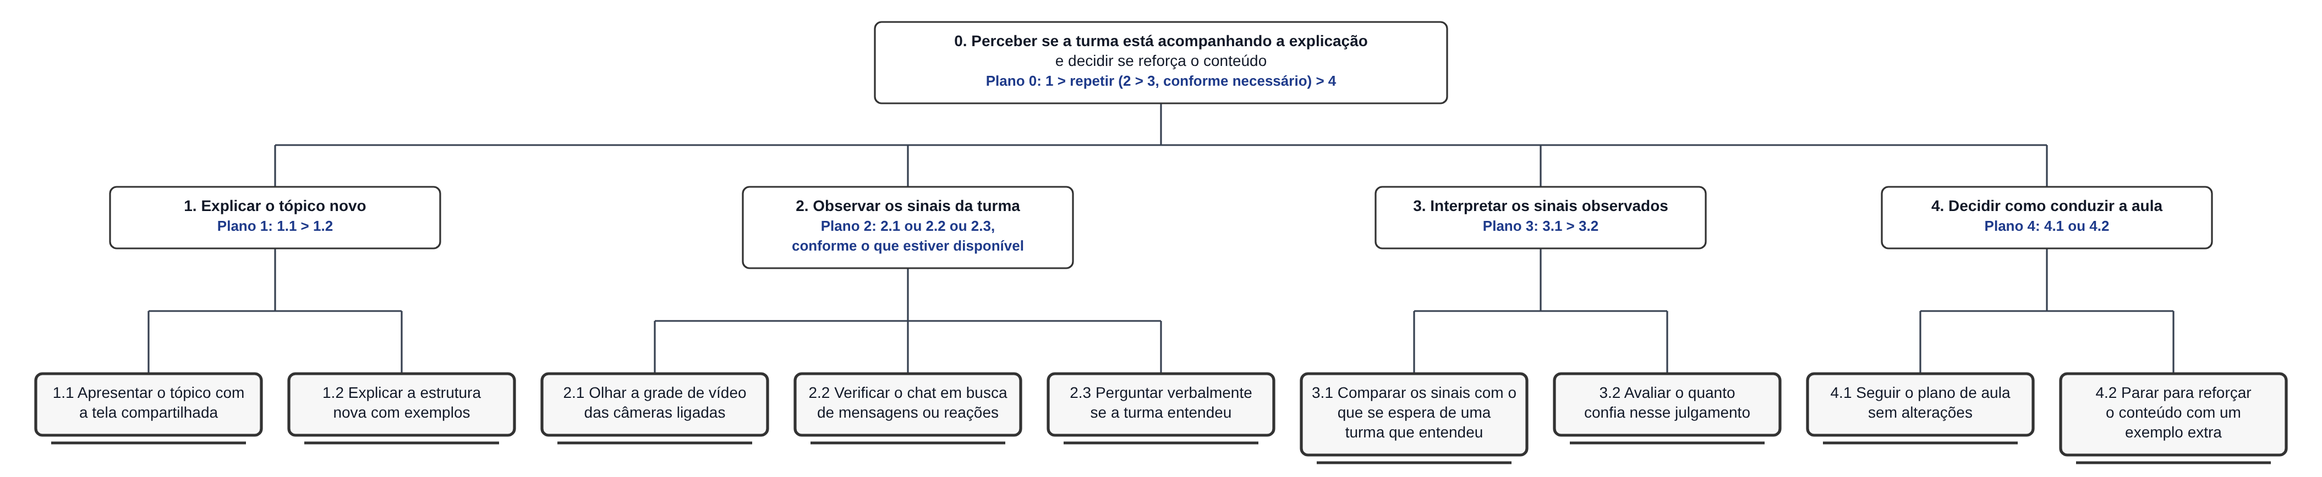
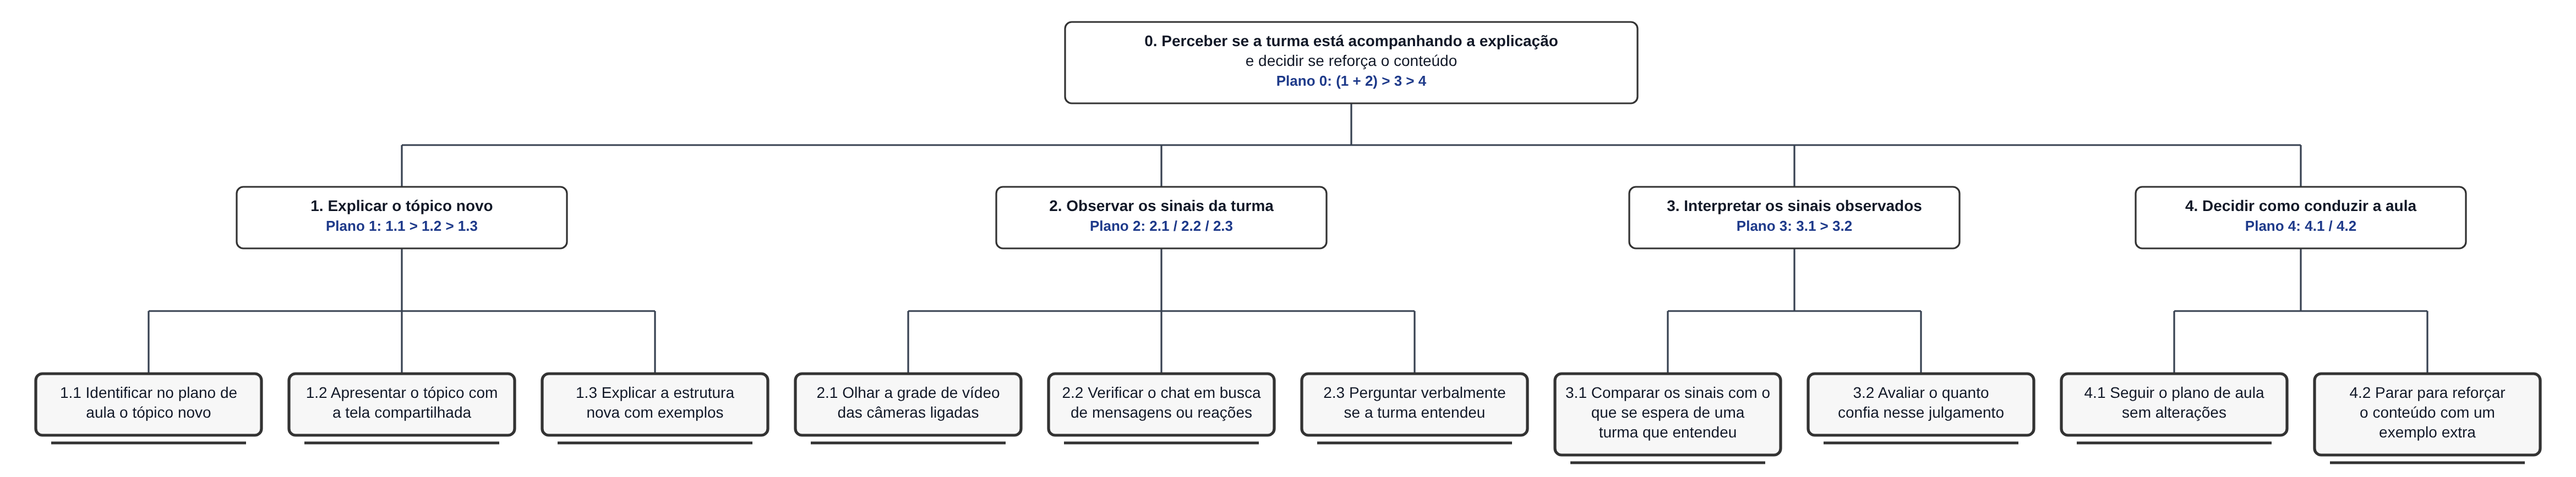
Correções da T03 conforme feedback da Entrega 5

diff --git a/docs/05_analise_tarefas.md b/docs/05_analise_tarefas.md
@@ -30,7 +30,7 @@ Um CRUD pode gerar tarefas relevantes, mas “cadastrar usuário” só merece m
 | ID | Tarefa | Persona/cenário de origem | Frequência/criticidade | Autor responsável |
 |---|---|---|---|---|
 | T01 | Personalizar a visualização dos resultados de uma aula concluída no MindFlow AI | P01 / C02 — docente analisando uma aula já finalizada e personalizando a apresentação dos resultados | Média frequência / Alta criticidade | Kayky Pires de Paula — 22.222.040-2 || T02 | Interpretar os indicadores do MindFlow AI e decidir se deve adaptar a condução durante a aula | P01 / C01 — docente analisando os resultados de uma aula on-line após seu término | Média frequência / Alta criticidade | Rafael Dias Silva Costa - 22.222.039-4 |
-| T03 | Perceber, durante a aula, se a turma está acompanhando uma explicação nova e decidir se reforça o conteúdo | P02 / C05 — professora de inglês explicando uma estrutura gramatical nova para uma turma pequena | Alta frequência / Alta criticidade | Isabella Vieira Silva Rosseto — 22.222.036-0 |
+| T03 | Perceber, durante a aula, se a turma está acompanhando uma explicação nova e decidir se reforça o conteúdo | P02 / C05 — professora de inglês explicando uma estrutura gramatical nova para uma turma pequena. Natureza: prática atual, sem o MindFlow | Alta frequência / Alta criticidade | Isabella Vieira Silva Rosseto — 22.222.036-0 |
 | T04 | Participar de uma aula com o MindFlow ativo controlando a própria participação na análise | P05 / C03 — Bruno entrando atrasado na aula de Cálculo, sem saber o que é feito com a imagem dele nem se a câmera ligada (ou desligada) pode pesar contra ele | Alta frequência (toda aula com o MindFlow ativo) / Alta criticidade | Gustavo Bertoluzzi Cardoso — 22.123.016-2 |
 | T05 | Conduzir a apresentação comercial percebendo a reação dos clientes e decidindo se avança, reforça ou reexplica um ponto da proposta | P04 / C01 — Manoel apresentando uma proposta pelo Teams com a tela compartilhada, sem conseguir ver nem ouvir todos os clientes, do preparo da reunião até a comparação das anotações com o retorno do cliente no follow-up | Alta frequência (toda reunião comercial) / Alta criticidade | Matheus Ferreira de Freitas — 22.125.085-5 |
 
@@ -479,7 +479,7 @@ flowchart TB
 
 A tarefa tem como objetivo permitir que a professora perceba, durante a própria aula, se a turma está acompanhando uma explicação nova e decida, ainda em tempo real, se reforça o conteúdo antes de seguir para o próximo tópico. É a tarefa que, no Cenário C05 (Entrega 4), Camila não consegue realizar bem: ela só descobre a dificuldade da turma na aula seguinte, ao corrigir o exercício de casa.
 
-A tarefa se inicia quando a professora começa a explicar um tópico novo, com a tela compartilhada e a grade de vídeo reduzida num canto da tela. Enquanto explica, ela busca sinais de compreensão: observa as câmeras ligadas, verifica o chat ou pergunta diretamente se a turma entendeu.
+A tarefa se inicia quando a professora identifica, no plano de aula, que chegou a hora de explicar um tópico novo, e começa a explicação com a tela compartilhada e a grade de vídeo reduzida num canto da tela. Enquanto explica, ela busca sinais de compreensão: observa as câmeras ligadas, verifica o chat ou pergunta diretamente se a turma entendeu.
 
 Com base nesses sinais, a professora interpreta se o silêncio e as respostas recebidas indicam compreensão ou dúvida, avaliando também o quanto confia nesse julgamento, que hoje é informal. Em seguida, decide se segue o plano de aula ou se interrompe a sequência para reforçar o conteúdo com um exemplo extra.
 
@@ -491,19 +491,31 @@ A tarefa é considerada concluída quando a professora toma a decisão (seguir o
 
 ### Decomposição e planos
 
-| ID | Objetivo/operação | Plano/ordem | Problema ou decisão de design observada |
-|---|---|---|---|
-| 0 | Perceber se a turma está acompanhando a explicação e decidir se reforça o conteúdo | 1 > repetir (2 > 3, conforme necessário) > 4 | A tarefa depende de sinais fracos (silêncio, câmeras desligadas); hoje não existe nenhum indicador estruturado, só a leitura informal da professora |
-| 1 | Explicar o tópico novo | 1.1 > 1.2 | Enquanto explica com a tela compartilhada, a professora já está com a atenção ocupada, o que reduz a atenção disponível para observar a turma |
-| 2 | Observar os sinais da turma | 2.1 ou 2.2 ou 2.3, conforme o que estiver disponível | Os três canais (câmera, chat, pergunta verbal) competem com a explicação e nenhum é confiável sozinho: a grade fica reduzida na tela compartilhada e o “sim” verbal costuma ser pouco convicto |
-| 3 | Interpretar os sinais observados | 3.1 > 3.2 | Não há nenhum indicador de confiança nesse julgamento; ele é puramente subjetivo (relacionado à hipótese H02) |
-| 4 | Decidir como conduzir a aula | 4.1 ou 4.2 | Parar para reforçar (4.2) gasta tempo de aula, então só acontece quando a professora tem bastante certeza, o que favorece seguir em frente por excesso de cautela |
+Notação dos planos: `>` sequência, `/` escolha e `+` paralelismo. As condições aparecem por extenso na última coluna.
+
+| ID | Objetivo/operação | Input | Feedback | Plano | Ações, problemas e recomendações |
+|---|---|---|---|---|---|
+| 0 | Perceber se a turma está acompanhando a explicação e decidir se reforça o conteúdo | Momento do plano de aula em que um conteúdo novo será explicado, com a tela compartilhada e a turma conectada | Camila reconhece que decidiu entre seguir ou reforçar e retoma a aula a partir dessa decisão | (1 + 2) > 3 > 4 | 2 se repete enquanto 1 acontece. Se 3 não for conclusiva, Camila volta a 2 antes de decidir. Problema: a tarefa depende de sinais fracos (silêncio, câmeras desligadas) e hoje só existe a leitura informal da professora |
+| 1 | Explicar o tópico novo | — | — | 1.1 > 1.2 > 1.3 | Enquanto explica com a tela compartilhada, a atenção da professora já está ocupada, o que reduz a atenção disponível para observar a turma |
+| 1.1 | Identificar no plano de aula o tópico novo | — | — | — | Atividade fora da videochamada que motiva a tarefa |
+| 1.2 | Apresentar o tópico com a tela compartilhada | — | — | — | A grade de vídeo fica reduzida a miniaturas |
+| 1.3 | Explicar a estrutura nova com exemplos | — | — | — | Ocupa a maior parte da atenção da professora |
+| 2 | Observar os sinais da turma | — | — | 2.1 / 2.2 / 2.3 | Escolha conforme o canal disponível: 2.1 se houver câmeras ligadas, 2.2 se a turma usa o chat, 2.3 se os outros dois não bastarem. Problema: nenhum canal é confiável sozinho e todos competem com a explicação |
+| 2.1 | Olhar a grade de vídeo das câmeras ligadas | — | — | — | Miniaturas pequenas e metade das câmeras desligadas |
+| 2.2 | Verificar o chat em busca de mensagens ou reações | — | — | — | Depende de o aluno escrever |
+| 2.3 | Perguntar verbalmente se a turma entendeu | — | — | — | O “sim” costuma vir rápido e pouco convicto |
+| 3 | Interpretar os sinais observados | — | — | 3.1 > 3.2 | Problema: não há nenhum apoio para avaliar a confiança nesse julgamento (H02) |
+| 3.1 | Comparar os sinais com o que se espera de uma turma que entendeu | — | — | — | Critério informal, baseado na experiência da professora |
+| 3.2 | Avaliar o quanto confia nesse julgamento | — | — | — | Recomendação: investigar com professoras que informação aumentaria essa confiança |
+| 4 | Decidir como conduzir a aula | — | — | 4.1 / 4.2 | 4.1 se a interpretação indicar compreensão; 4.2 se indicar dúvida. Problema: reforçar gasta tempo de aula, então só acontece com bastante certeza, o que favorece seguir em frente |
+| 4.1 | Seguir o plano de aula sem alterações | — | — | — | — |
+| 4.2 | Parar para reforçar o conteúdo com um exemplo extra | — | — | — | Custo de tempo e risco de expor quem não entendeu |
 
 **Verificação do HTA:**
 
 - O objetivo 0 representa uma meta do usuário? Sim. É o objetivo de Camila (persona P02, Cenário C05), e não uma função do sistema.
-- As subtarefas são necessárias e suficientes? Sim. Explicar, observar, interpretar e decidir cobrem o ciclo completo descrito no cenário.
-- Os **planos** indicam ordem, alternativa, repetição ou condição? Sim. O Plano 0 usa ordem e repetição, e os Planos 2 e 4 usam alternativa (“ou”).
+- As subtarefas são necessárias e suficientes? Sim. Explicar, observar, interpretar e decidir cobrem o ciclo completo descrito no cenário, começando pela atividade fora da videochamada que motiva a tarefa (1.1).
+- Os **planos** indicam ordem, alternativa, repetição ou condição? Sim. O Plano 0 usa paralelismo (`+`) e sequência (`>`), com a repetição de 2 descrita na tabela; os Planos 2 e 4 usam escolha (`/`).
 - A decomposição parou em nível útil para projeto de interação? Sim. Parou em ações observáveis (olhar a grade, verificar o chat, perguntar), sem descer a detalhes de tela.
 
 ---
@@ -527,7 +539,8 @@ O objetivo principal é, ainda durante a aula, formar um julgamento sobre a comp
 - **OP. 1.A.1:** direcionar o olhar para a grade de vídeo reduzida;
 - **OP. 1.A.2:** identificar os alunos com câmera ligada;
 - **OP. 1.A.3:** observar as expressões visíveis nas miniaturas;
-- **OP. 1.A.4:** retornar a atenção ao conteúdo compartilhado.
+- **OP. 1.A.4:** retornar a atenção ao conteúdo compartilhado;
+- **OP. 1.A.5:** verificar se as expressões observadas foram suficientes para indicar compreensão ou dúvida; se não forem, recorrer a outro método.
 
 #### METHOD 1.B: Verificar o chat
 
@@ -535,7 +548,8 @@ O objetivo principal é, ainda durante a aula, formar um julgamento sobre a comp
 
 - **OP. 1.B.1:** direcionar o olhar para o painel de chat da videochamada;
 - **OP. 1.B.2:** procurar mensagens ou reações recentes sobre o tópico;
-- **OP. 1.B.3:** retornar a atenção ao conteúdo compartilhado.
+- **OP. 1.B.3:** retornar a atenção ao conteúdo compartilhado;
+- **OP. 1.B.4:** verificar se as mensagens encontradas indicam compreensão ou dúvida; se o chat estiver vazio, recorrer ao Method 1.C.
 
 #### METHOD 1.C: Perguntar diretamente à turma
 
@@ -544,7 +558,8 @@ O objetivo principal é, ainda durante a aula, formar um julgamento sobre a comp
 - **OP. 1.C.1:** interromper brevemente a explicação;
 - **OP. 1.C.2:** perguntar à turma se entenderam;
 - **OP. 1.C.3:** aguardar as respostas;
-- **OP. 1.C.4:** avaliar o tom e a convicção das respostas recebidas.
+- **OP. 1.C.4:** avaliar o tom e a convicção das respostas recebidas;
+- **OP. 1.C.5:** verificar se as respostas foram suficientes para formar um julgamento sobre a turma.
 
 ---
 
@@ -576,7 +591,8 @@ O objetivo principal é, ainda durante a aula, formar um julgamento sobre a comp
 **SEL. RULE:** utilizar quando a interpretação do Goal 2 indicar que a turma acompanhou o conteúdo.
 
 - **OP. 3.A.1:** concluir a explicação do tópico atual;
-- **OP. 3.A.2:** passar para o próximo tópico previsto no plano.
+- **OP. 3.A.2:** passar para o próximo tópico previsto no plano;
+- **OP. 3.A.3:** confirmar que a aula seguiu para o próximo tópico sem dúvida pendente sobre o anterior.
 
 #### METHOD 3.B: Reforçar o conteúdo na hora
 
@@ -585,7 +601,8 @@ O objetivo principal é, ainda durante a aula, formar um julgamento sobre a comp
 - **OP. 3.B.1:** interromper a sequência prevista;
 - **OP. 3.B.2:** apresentar um exemplo adicional da estrutura;
 - **OP. 3.B.3:** perguntar novamente se ficou claro;
-- **OP. 3.B.4:** retomar o plano de aula a partir desse ponto.
+- **OP. 3.B.4:** retomar o plano de aula a partir desse ponto;
+- **OP. 3.B.5:** verificar se as respostas depois do reforço indicaram que a dúvida foi resolvida.
 
 ---
 
@@ -597,7 +614,7 @@ O objetivo principal é, ainda durante a aula, formar um julgamento sobre a comp
 
 O modelo CTT representa a mesma tarefa do HTA e do GOMS da T03, com a mesma numeração dos objetivos, considerando as relações temporais entre as tarefas e quem executa cada uma: a professora (usuário), a professora agindo na videochamada (interação) ou a plataforma de videoconferência (sistema).
 
-Camila explica o tópico novo com a tela compartilhada e, ao mesmo tempo, observa a turma, escolhendo a cada momento entre olhar a grade de vídeo, verificar o chat ou perguntar se entenderam. Depois de observar, interpreta os sinais e avalia o quanto confia nesse julgamento.
+A tarefa começa por uma atividade de Camila fora da videochamada: identificar no plano de aula que chegou a hora de explicar um tópico novo (1.1). Em seguida, ela apresenta o tópico com a tela compartilhada, a plataforma transmite a tela aos alunos e ela explica a estrutura. Ao mesmo tempo, observa a turma, escolhendo a cada momento entre olhar a grade de vídeo, verificar o chat ou perguntar se entenderam. Depois de observar, interpreta os sinais e avalia o quanto confia nesse julgamento.
 
 Por fim, decide entre seguir o plano de aula ou reforçar o conteúdo com um exemplo extra. O modelo descreve a prática atual, sem o MindFlow; por isso o sistema é a plataforma que ela já usa (Google Meet).
 
@@ -610,10 +627,10 @@ Por fim, decide entre seguir o plano de aula ou reforçar o conteúdo com um exe
 | Operador/relação | Significado no diagrama | Exemplo no modelo |
 |---|---|---|
 | Nuvem | Tarefa abstrata. Reúne subtarefas de diferentes categorias. | Explicar o tópico novo; Observar os sinais da turma; Interpretar os sinais; Decidir como conduzir a aula. |
-| Pessoa | Tarefa do usuário. Atividade cognitiva, como avaliar ou decidir. | Comparar os sinais; Avaliar o quanto confia; Seguir o plano de aula. |
+| Pessoa | Tarefa do usuário. Atividade cognitiva, como avaliar ou decidir. | Identificar no plano o tópico novo; Comparar os sinais; Avaliar o quanto confia; Seguir o plano de aula. |
 | Computador | Tarefa do sistema. Executada pela plataforma de videoconferência, sem ação da professora. | Transmitir a tela aos alunos. |
 | Pessoa e computador | Tarefa de interação. Ação da professora na videochamada. | Apresentar com a tela compartilhada; Explicar a estrutura; Olhar a grade; Verificar o chat; Perguntar; Reforçar com um exemplo extra. |
-| `>>` — Habilitação | A segunda tarefa é habilitada após a conclusão da primeira. | Observar → Interpretar → Decidir; Comparar os sinais → Avaliar a confiança. |
+| `>>` — Habilitação | A segunda tarefa é habilitada após a conclusão da primeira. | Identificar o tópico novo → Apresentar; Observar → Interpretar → Decidir; Comparar os sinais → Avaliar a confiança. |
 | `[ ] >>` — Habilitação com passagem de informação | A segunda tarefa utiliza as informações produzidas pela primeira. | Apresentar com a tela compartilhada → Sistema transmitir a tela. |
 | `[ ]` — Escolha | Apenas uma das alternativas é executada naquele momento. | Olhar a grade, verificar o chat ou perguntar; Seguir o plano ou reforçar. |
 | `\|\|\|` — Concorrência | As tarefas acontecem ao mesmo tempo. | Explicar o tópico novo enquanto observa os sinais da turma. |
